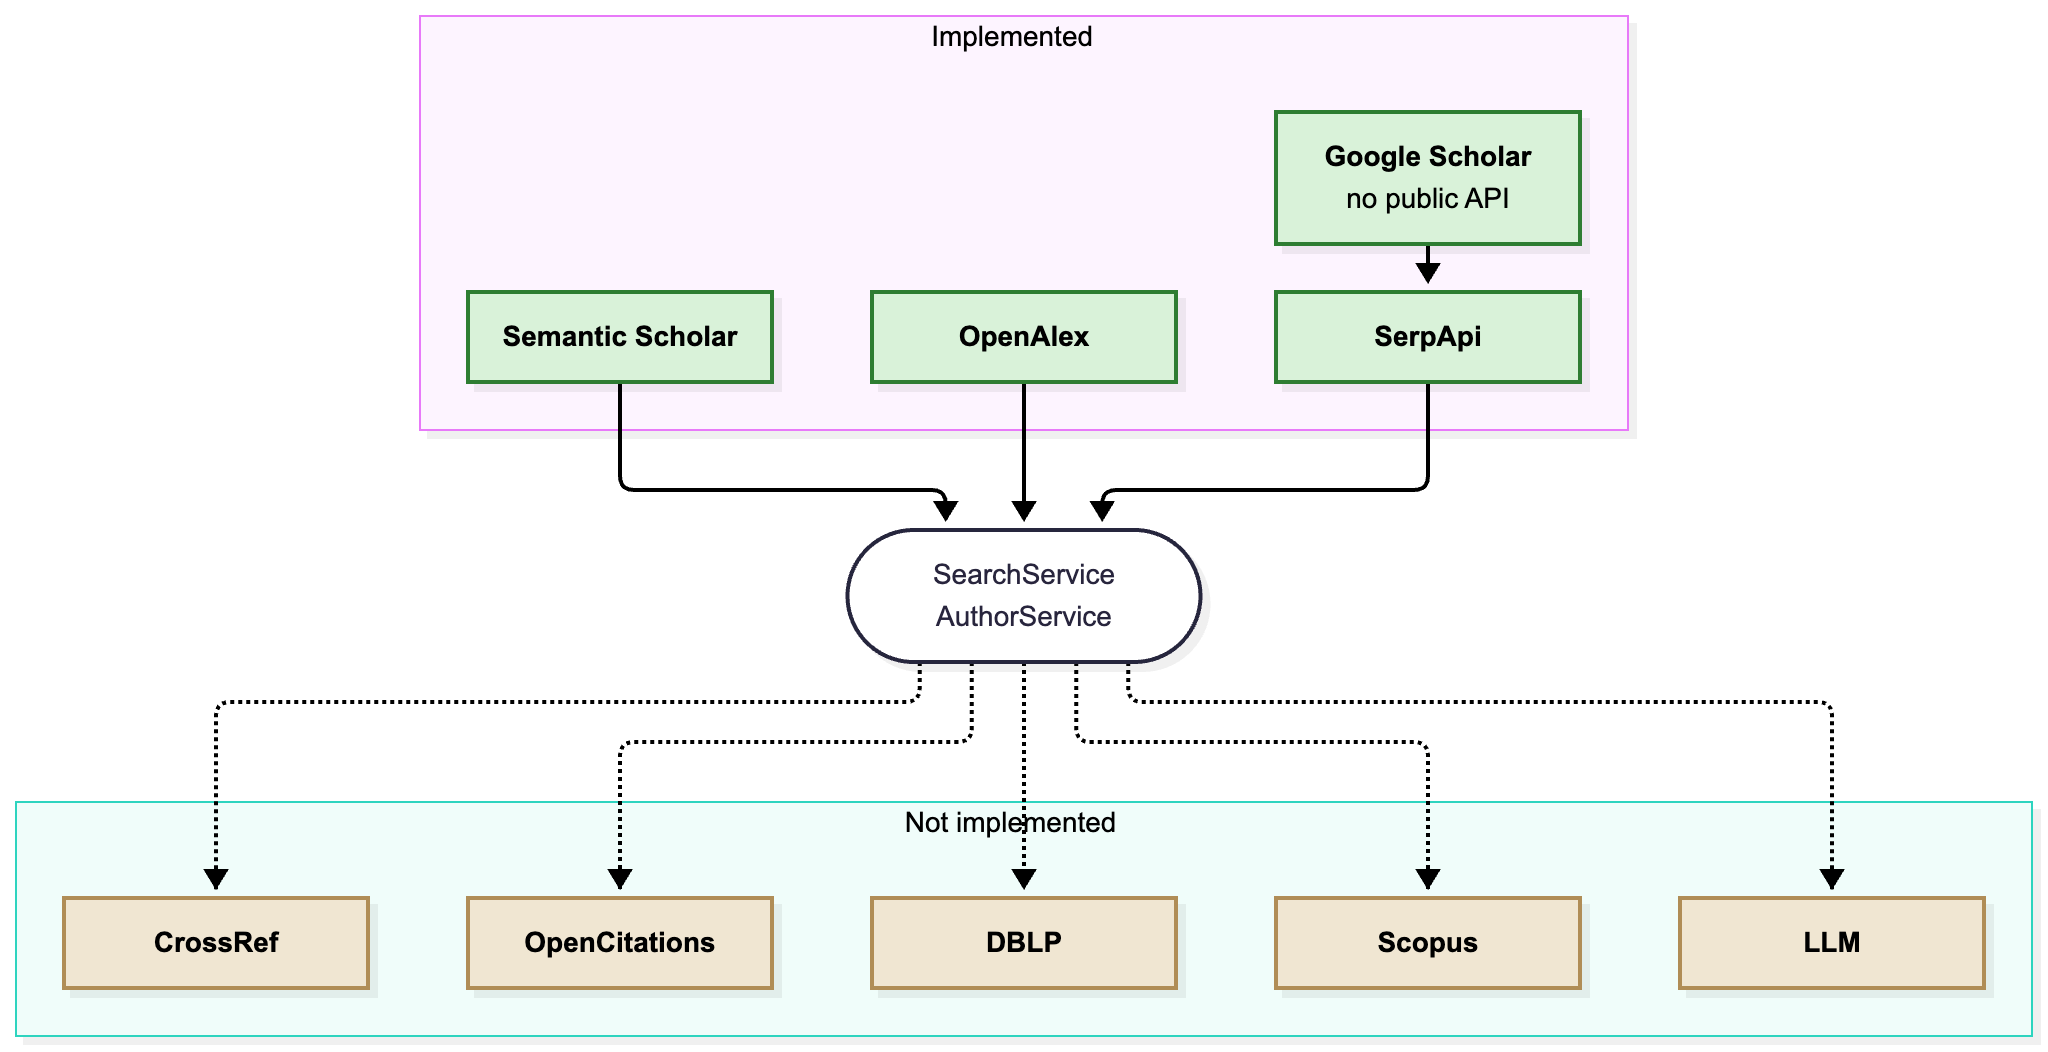
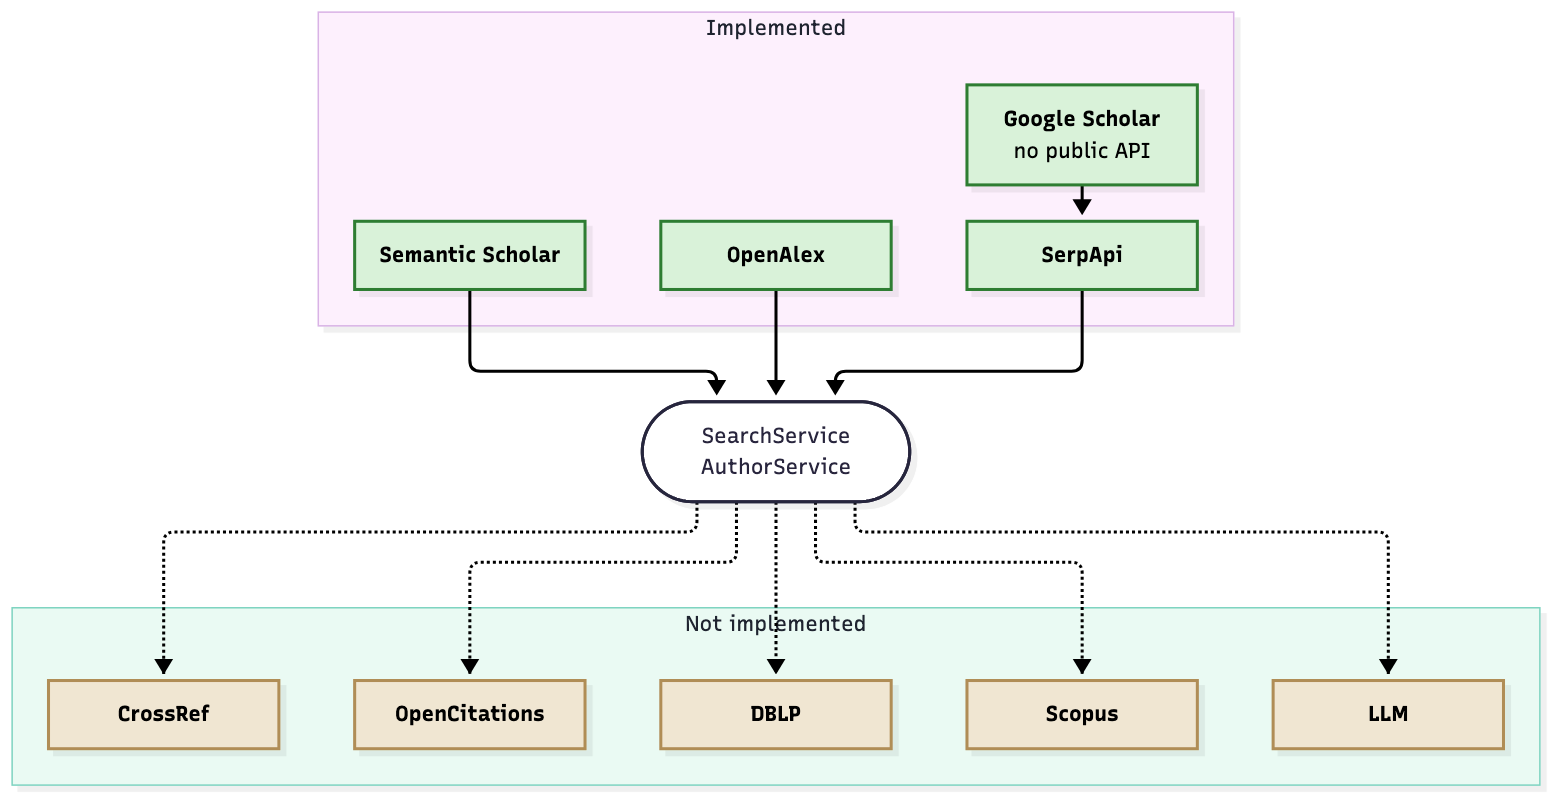
[docs] Extract all diagrams as code + add make target
Report diagrams are built by `make diagrams` called from the project root

Changed region(s): [[0.0938, 0.031, 0.9062, 0.7134], [0.0, 0.7444, 1.0, 0.9926], [0.4375, 0.0, 0.5312, 0.062]]

diff --git a/src/packages/web/README.md b/src/packages/web/README.md
@@ -29,17 +29,18 @@ The provided docker config places a prebuilt frontend dist into the backend as a
 The diagram represents the nested encapsulation:
 
 ```mermaid
-flowchart TB
-    subgraph PAGE["Page"]
-        subgraph CONT["Container"]
-            direction LR
-            COMP1["Component 1"]
-            COMP2["Component 2"]
-            CONN{{"Connector"}}
-            CONN -- "data" --> COMP1
+graph TB
+    subgraph page["Page"]
+        subgraph container["Container"]
+            conn{{"Connector"}}
+            c2["Component 2"]
+            conn -->|"data"| c1["Component 1"]
         end
     end
+    conn -.->|"request / response"| api["Backend API"]
 
-    API[("Backend API")]
-    CONN -. "request / response" .-> API
+    classDef plain fill:#ffffff,stroke:#33365c,stroke-width:2px,color:#1f2430
+    class conn,c1,c2 plain
+    style page fill:#fdf0fd,stroke:#d9b3e6,color:#1f2430
+    style container fill:#eafaf3,stroke:#7fd4c1,color:#1f2430
 ```
